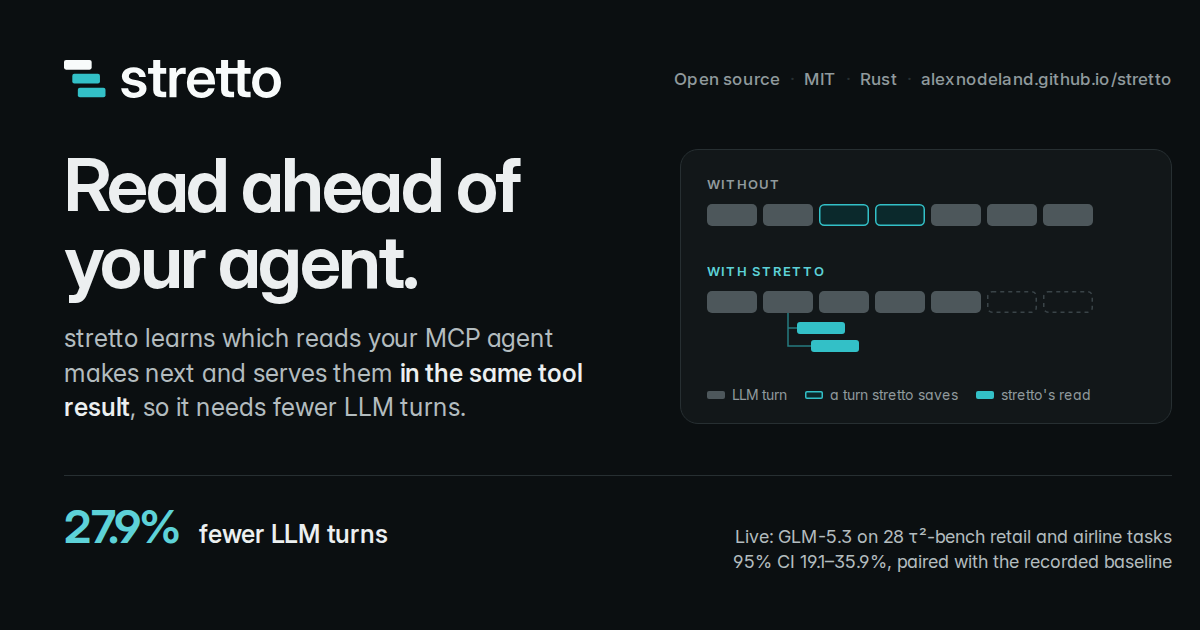
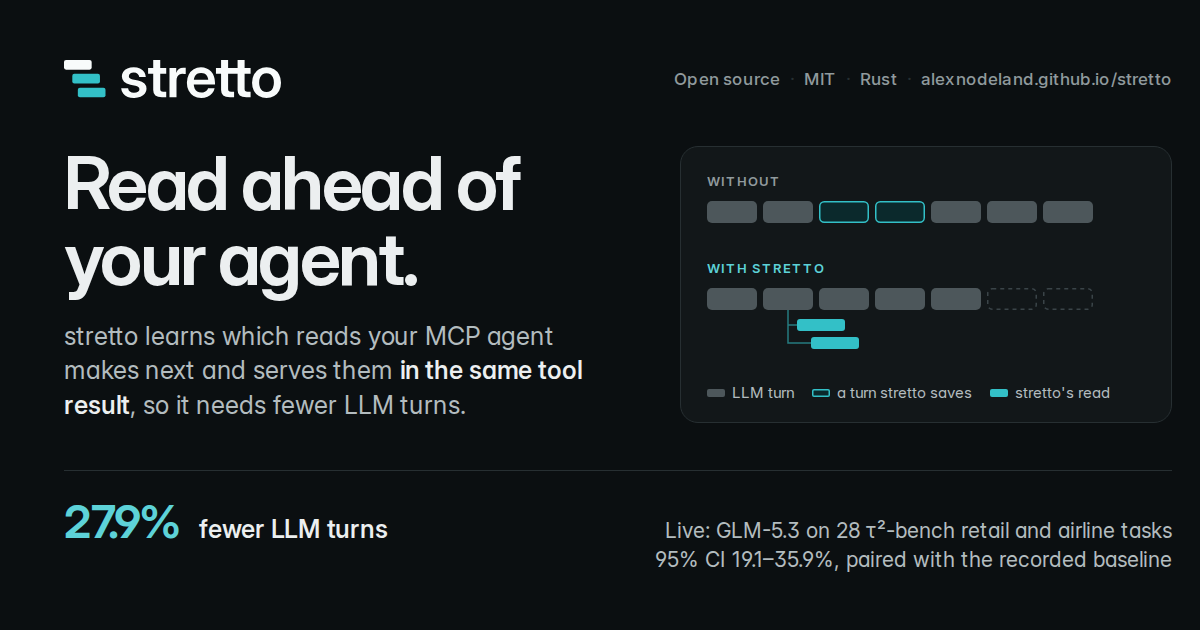
Brand: a larger scope line on the social card
At phone width the line that scopes 27.9% was the smallest text on the
card; it is 21 px now, and the schematic's legend 15 px.

Claude-Session: https://claude.ai/code/session_01TNpvyEwFfJ4rSz3Djqu6hL

diff --git a/brand/social/og-card.html b/brand/social/og-card.html
@@ -41,13 +41,13 @@
   .score svg { display: block; }
   .lane-label { font: 600 13px/1 "Inter"; letter-spacing: 0.08em; text-transform: uppercase; fill: var(--subtle); }
   .lane-label.on { fill: var(--accent); }
-  .legend { display: flex; gap: 18px; margin-top: 14px; font-size: 14px; color: var(--subtle); }
+  .legend { display: flex; gap: 18px; margin-top: 14px; font-size: 15px; color: var(--muted); }
   .legend i { display: inline-block; width: 18px; height: 8px; border-radius: 2px; margin-right: 7px; vertical-align: 1px; }
   .result { grid-column: 1 / 3; display: flex; align-items: baseline; gap: 18px; border-top: 1px solid var(--border);
     padding-top: 22px; }
   .num { font-weight: 650; font-size: 46px; letter-spacing: -0.03em; color: var(--accent); }
   .what { font-weight: 560; font-size: 25px; letter-spacing: -0.01em; }
-  .scope { font-size: 18px; color: var(--muted); margin-left: auto; text-align: right; line-height: 1.35; }
+  .scope { font-size: 21px; color: var(--muted); margin-left: auto; text-align: right; line-height: 1.35; }
 </style>
 </head>
 <body>
